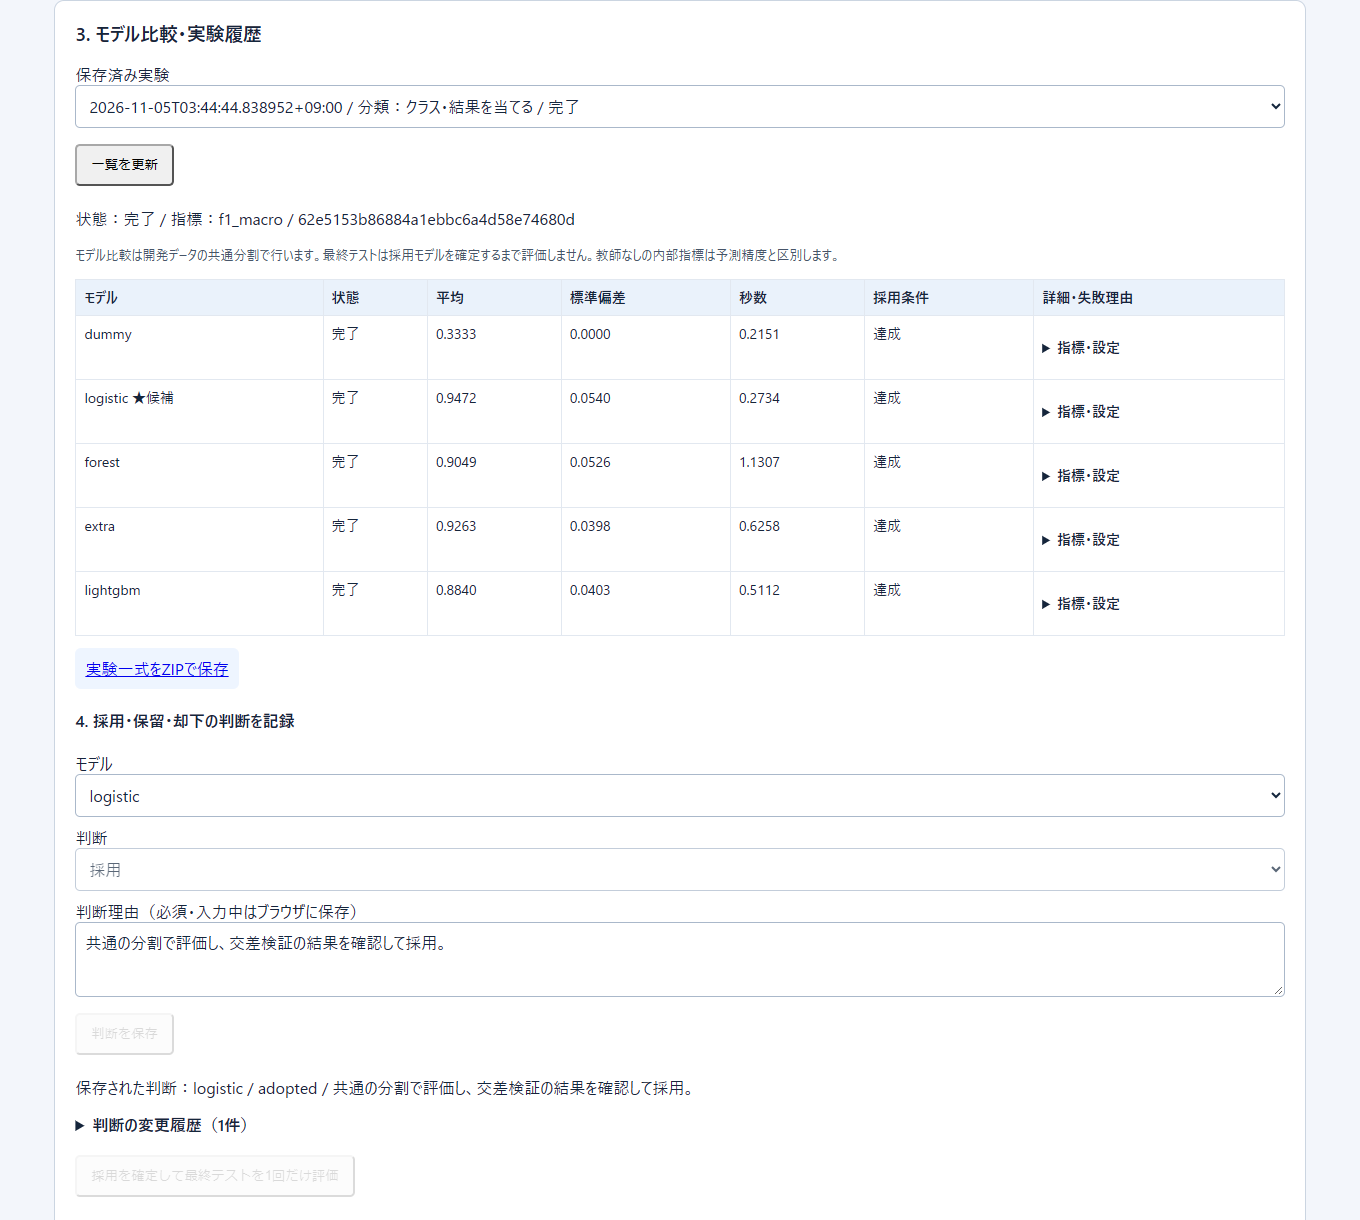
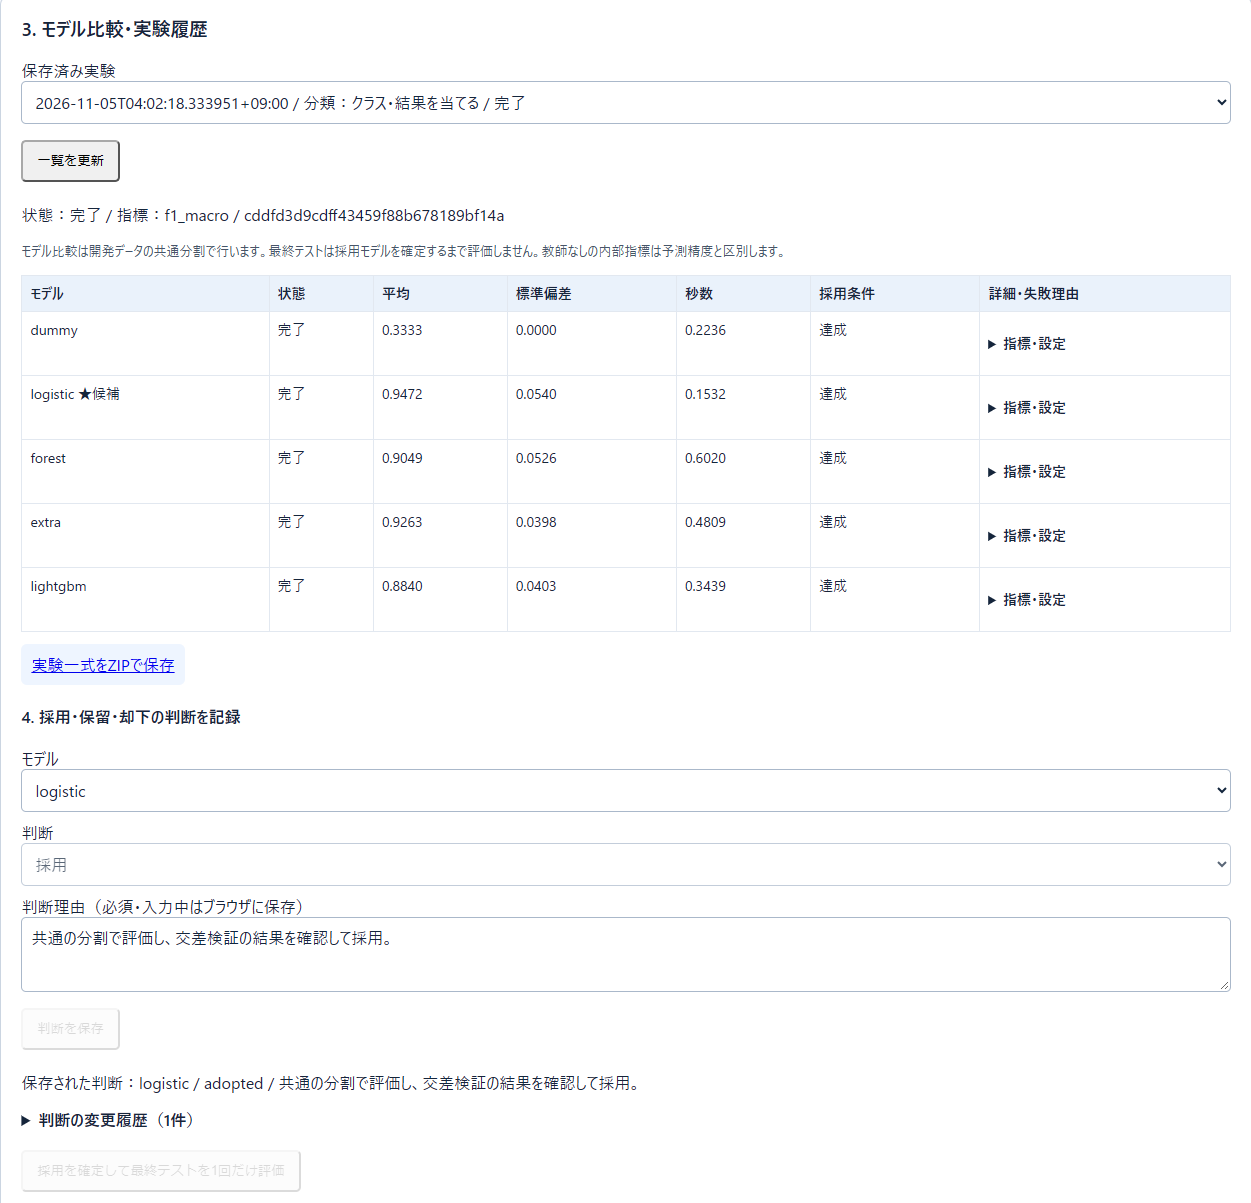
Clarify README and add a reproducible demo check
- Lead the README with what was built, the Codex-assisted personal
  development, how it was verified, and the synthetic-only scope
- Add verification/reproduce_demo.py to reproduce the published values
- Retake the comparison screenshot and add final-evaluation.png
- Replace a launcher reference that does not exist in this repository
- Update vite to 6.4.5 via npm audit fix

diff --git a/frontend/src/AutoAnalysis.jsx b/frontend/src/AutoAnalysis.jsx
@@ -16,7 +16,7 @@ export default function AutoAnalysis(){
  useEffect(()=>{try{localStorage.setItem('analysis-form-v1',JSON.stringify(cfg))}catch(e){setError('入力のブラウザ保存に失敗：'+e.message)}},[cfg]);
  useEffect(()=>{try{localStorage.setItem(run?.id?'analysis-reason-v1:'+run.id:'analysis-reason-v1',reason)}catch(e){setError('理由のブラウザ保存に失敗：'+e.message)}},[reason,run?.id]);
  async function refresh(){const [d,r,c]=await Promise.all([call('/data'),call('/runs'),call('/catalog')]);setData(d);setRuns(r);setCatalog(c);return r}
- useEffect(()=>{refresh().then(r=>{const id=localStorage.getItem('analysis-run-v1');if(id)loadRun(id).catch(e=>setError(e.message))}).catch(e=>setError('分析APIに接続できません。起動する.cmdを実行してください：'+e.message))},[]);
+ useEffect(()=>{refresh().then(r=>{const id=localStorage.getItem('analysis-run-v1');if(id)loadRun(id).catch(e=>setError(e.message))}).catch(e=>setError('分析APIに接続できません。READMEの手順でサーバーを起動してください：'+e.message))},[]);
  async function loadRun(id){const r=await call('/runs/'+id);setRun(r);localStorage.setItem('analysis-run-v1',id);setModel(r.decision?.model||r.suggested_model||r.rows.find(x=>x.status==='completed')?.model||'');setReason(localStorage.getItem('analysis-reason-v1:'+id)??r.decision?.reason??localStorage.getItem('analysis-reason-v1')??'');setDecisionStatus(r.decision?.status||'adopted');setPrediction(null)}
  useEffect(()=>{if(!run?.id||!['queued','running'].includes(run.status))return;const id=run.id;const timer=setInterval(()=>call('/runs/'+id).then(r=>{if(current.current!==id)return;setRun(r);if(r.status==='completed'){setModel(m=>m||r.suggested_model||r.rows.find(x=>x.status==='completed')?.model||'');refresh().catch(()=>{})}}).catch(e=>setError(e.message)),1500);return()=>clearInterval(timer)},[run?.id,run?.status]);
  useEffect(()=>{setGraphs([]);if(!run?.id||!model)return;let alive=true;call(`/runs/${run.id}/graphs/${model}`).then(g=>{if(alive)setGraphs(g)}).catch(e=>{if(alive)setError('グラフ状態取得：'+e.message)});return()=>{alive=false}},[run?.id,model]);

diff --git a/verification/reproduce_demo.py b/verification/reproduce_demo.py
@@ -1,0 +1,121 @@
+"""READMEの合成データ結果をAPI経由で再現する。
+
+examples/make_demo.py と同じ120行を取り込み、おすすめ5モデルの比較、判断の保存、
+最終テスト、別の合成3行の予測までを一時フォルダで実行する。実データは使わない。
+
+    python verification/reproduce_demo.py
+"""
+import os
+import sys
+import tempfile
+import time
+from pathlib import Path
+
+import pandas as pd
+from sklearn.datasets import make_classification
+
+root = Path(__file__).resolve().parents[1]
+sys.path.insert(0, str(root / "backend"))
+COLUMNS = ["feature_a", "feature_b", "feature_c", "feature_d", "feature_e"]
+
+
+def demo_frame():
+    features, target = make_classification(
+        n_samples=120, n_features=5, n_informative=3, random_state=42
+    )
+    frame = pd.DataFrame(features, columns=COLUMNS)
+    frame["target"] = target
+    return frame
+
+
+def new_rows():
+    features, _ = make_classification(
+        n_samples=3, n_features=5, n_informative=3, random_state=7
+    )
+    return pd.DataFrame(features, columns=COLUMNS).to_dict("records")
+
+
+def wait_for_run(client, run_id):
+    for _ in range(600):
+        run = client.get(f"/api/analysis/runs/{run_id}").json()
+        if run["status"] not in ("queued", "running"):
+            return run
+        time.sleep(0.5)
+    raise TimeoutError("比較が300秒以内に終わりませんでした")
+
+
+def wait_for_workers(api):
+    for _ in range(100):
+        with api.job_lock:
+            if not api.jobs:
+                return
+        time.sleep(0.1)
+
+
+def main():
+    with tempfile.TemporaryDirectory(prefix="sklearn_map_lab_demo_") as directory:
+        os.environ["SKLEARN_ANALYSIS_DIR"] = directory
+        from fastapi import FastAPI
+        from fastapi.testclient import TestClient
+
+        from analysis import api
+
+        app = FastAPI()
+        app.include_router(api.router)
+        client = TestClient(app)
+
+        csv = demo_frame().to_csv(index=False).encode()
+        data = client.post(
+            "/api/analysis/upload", files={"file": ("demo.csv", csv, "text/csv")}
+        ).json()
+        config = {
+            "data_id": data["id"],
+            "task": "classification",
+            "target": "target",
+            "features": COLUMNS,
+            "metric": "f1_macro",
+            "cv": 3,
+            "seed": 42,
+            "test_size": 0.2,
+        }
+        models = client.post("/api/analysis/recommend", json=config).json()
+        config["models"] = [model["id"] for model in models if model["recommended"]]
+        run_id = client.post("/api/analysis/runs", json=config).json()["id"]
+        run = wait_for_run(client, run_id)
+        if run["status"] != "completed":
+            raise RuntimeError(f"比較に失敗しました: {run.get('error')}")
+
+        print(f"rows: {data['rows']}")
+        for row in run["rows"]:
+            print(f"cv_f1_macro {row['model']}: {row['mean']:.4f} ({row['status']})")
+
+        client.post(
+            f"/api/analysis/runs/{run_id}/decision",
+            json={
+                "model": "logistic",
+                "status": "adopted",
+                "reason": "共通の分割で評価し、交差検証の結果を確認して採用。",
+            },
+        ).raise_for_status()
+        final = client.post(f"/api/analysis/runs/{run_id}/final", json={})
+        final.raise_for_status()
+        final = final.json()
+        print(f"final_test_rows: {final['test_rows']}")
+        print(f"final_f1_macro logistic: {final['metrics']['f1_macro']:.4f}")
+
+        changed = client.post(
+            f"/api/analysis/runs/{run_id}/decision",
+            json={"model": "dummy", "status": "adopted", "reason": "評価後の変更"},
+        )
+        print(f"decision_after_final_status: {changed.status_code}")
+
+        predicted = client.post(
+            f"/api/analysis/runs/{run_id}/predict", json={"rows": new_rows()}
+        )
+        predicted.raise_for_status()
+        print(f"predictions: {predicted.json()['predictions']}")
+        wait_for_workers(api)
+
+
+if __name__ == "__main__":
+    main()

diff --git a/README.md b/README.md
@@ -1,41 +1,48 @@
 # sklearn-map-lab
 
-手元の表データで、機械学習モデルを同じ条件で比較し、採用した理由と最終評価を残すローカルWebアプリです。
+表データを取り込み、機械学習モデルを同じ分割で比較して、採用した理由と最終テストの結果を記録するローカルWebアプリです。Codexを活用して個人開発しました。
 
-**English summary.** A local web app that profiles tabular data, compares machine-learning models on shared splits, and records the selection rationale before holdout evaluation.
+**English summary.** A local web app that profiles tabular data, compares machine-learning models on shared splits, and records the selection rationale before holdout evaluation. It is a personal project built with Codex. All figures below come from synthetic data.
 
-## 背景と担当
+| 観点 | 内容 |
+| --- | --- |
+| 作ったもの | データ診断、候補モデルの選定、交差検証での比較、採用理由の記録、最終テスト、新しい行の予測を1画面でつなぐアプリ（Python、FastAPI、React、scikit-learn、PyTorch） |
+| 担当 | 個人開発。実装にCodexを活用しました。公開版は既存のローカルアプリからデータ取り込みと自動分析の機能を切り出した新規履歴で、手書きとCodex生成の内訳を行単位で示す記録はありません |
+| 動作の確かめ方 | バックエンド14テスト、本番ビルド、実ブラウザでの操作、全モデル・全グラフの実行を2026-11-05に再実行し、すべて成功（[検証](#検証)） |
+| 数値の範囲 | 掲載する数値はすべて合成データでの動作確認の値です。実データでの性能は評価していません |
 
-モデル比較のスコアに加えて、何を予測するか、どの列を使うか、どのモデルをなぜ採用したかを同じ画面で確認できるよう、Codexを活用して個人開発しました。この公開版は、既存アプリからデータ取り込みと自動分析の機能を切り出したものです。
+## 動作画面
+
+合成データ120行で5モデルを比較し、採用理由を保存した画面です。
+
+![合成データでのモデル比較と採用理由](docs/model-comparison.png)
+
+採用を確定した後に最終テスト24行を評価し、別の合成データ3行を予測した画面です。
+
+![合成データでの最終テストと予測](docs/final-evaluation.png)
 
 ## できること
 
 | 工程 | 実装 |
 | --- | --- |
-| データ診断 | CSV、TSV、Excel、JSON、Parquetを取り込み、列の型・欠損・分布を表示 |
+| データ診断 | CSV、TSV、Excel（.xlsx）、JSON、Parquetを取り込み、列の型・欠損・分布を表示 |
 | 候補選定 | 分類、回帰、クラスタリング、異常検知、次元削減、等間隔時系列に応じて候補と除外理由を表示 |
 | 比較 | 分類・回帰でDummy基準モデルを使い、共通の分割で交差検証。前処理は各foldの訓練部分で学習 |
-| 判断の記録 | 採用・保留・却下と理由を実験に保存。分類・回帰・時系列の最終テストは採用確定後に評価 |
+| 判断の記録 | 採用・保留・却下と理由を実験に保存。分類・回帰・時系列の最終テストは採用確定後に評価し、評価後は採用モデルを変更不可 |
 | 振り返り | 適用条件に合う診断グラフを生成。設定・結果をZIPに書き出し、対応モデルでは新しい行を予測 |
 
 Reactが設定入力と結果表示を担当し、FastAPIがデータ取り込みと実験管理を担当します。学習・描画は別プロセスで実行し、実験記録はローカルの `analysis_data/` に保存します。
 
-| ソース | 担当 |
+| ソース | 役割 |
 | --- | --- |
 | [frontend/src/AutoAnalysis.jsx](frontend/src/AutoAnalysis.jsx) | 取り込みから判断の保存までの操作画面 |
 | [backend/analysis/api.py](backend/analysis/api.py) | データ取り込み、学習ワーカー、実験管理API |
 | [backend/analysis/engine.py](backend/analysis/engine.py) | データ分割、モデル比較、採用後の最終評価 |
 | [backend/analysis/graphs.py](backend/analysis/graphs.py) | 診断グラフの条件判定と描画 |
 
-## 動作画面
-
-合成データ120行を使った5モデルの比較と、採用理由を保存した画面です。
-
-![合成データでのモデル比較と採用理由](docs/model-comparison.png)
-
 ## セットアップ
 
-Python 3.12とNode.js 24で検証しました。リポジトリのルートから実行します。
+Python 3.12とNode.js 24で検証しました。リポジトリのルートから実行します。依存パッケージにPyTorchなどを含むため、インストールには時間がかかります。
 
 ```sh
 python -m venv .venv
@@ -49,14 +56,33 @@ python examples/make_demo.py examples/demo.csv
 python -m uvicorn main:app --app-dir backend --host 127.0.0.1 --port 8000
 ```
 
-ブラウザで `http://127.0.0.1:8000/` を開き、`examples/demo.csv` を取り込みます。目的変数に `target`、タスクに分類を設定し、「おすすめで比較を実行」を選びます。比較結果からモデルを選んで理由を保存し、最終テストを実行します。起動にAPIキーは不要です。保存先は環境変数 `SKLEARN_ANALYSIS_DIR` で指定できます。
+ブラウザで `http://127.0.0.1:8000/` を開き、`examples/demo.csv` を取り込みます。目的変数 `target` と分類は自動で候補に入ります。「おすすめで比較を実行」を選び、比較結果からモデルを選んで理由を保存し、最終テストを実行します。起動にAPIキーは不要です。保存先は環境変数 `SKLEARN_ANALYSIS_DIR` で指定できます。
 
 ## 検証
 
-- 合成データ120行のブラウザ試験で、5モデルの比較、判断の保存、最終テスト24行の評価、別途生成した3行の予測まで確認しました。3分割交差検証の平均マクロF1はDummyが0.3333、採用したロジスティック回帰が0.9472でした。ロジスティック回帰の最終テストでのマクロF1は0.9161でした。すべてこの合成データに限った動作確認の値です。
-- 公開用コピーでフロントエンドの本番ビルドと、バックエンド既存14テストの通過を確認しました。テストはCSV・Excel取り込み、学習、描画、採用後の評価、予測などをカバーします。
-- バックエンドのテストを実行する場合は `python -m pip install httpx` の後、`backend/` から `python -m unittest discover -s tests -v` を実行します。
+2026-11-05に、公開中のソースをWindows 11の新しい環境へ取得し、READMEの手順で再実行しました。環境はPython 3.12.13、Node.js 24.19、scikit-learn 1.9.1、pandas 3.1.1、FastAPI 0.162.0です。
+
+| 確認 | 実行方法 | 結果 |
+| --- | --- | --- |
+| バックエンド | `backend/` で `python -m unittest discover -s tests -v` | 14テストすべて通過 |
+| フロントエンド | `npm --prefix frontend run build` | 本番ビルド成功 |
+| 合成データの再現 | `python verification/reproduce_demo.py` | 下表の値を再現 |
+| 実ブラウザ | セットアップ後に画面を操作 | 120行の取り込み、5モデル比較、判断の保存、最終テスト24行、3行の予測を確認 |
+| 全モデル・全グラフ | `python verification/check_analysis.py` | 6タスクの合成データで65のタスク・モデルの組合せがすべて完了し、95種類のグラフをすべて描画 |
+
+テストと再現スクリプトの実行前に `python -m pip install httpx` が必要です。テストはCSV（CP932）・Excelの取り込み、欠測や分割条件の拒否、fold内の前処理、最終テストの二重評価防止、保存失敗からの復旧、時系列、2D CNN、取り込みからZIP出力までの通し動作をカバーします。
+
+| 合成データ120行の結果 | マクロF1 |
+| --- | --- |
+| Dummy（3分割交差検証の平均） | 0.3333 |
+| Random Forest（同） | 0.9049 |
+| Extra Trees（同） | 0.9263 |
+| LightGBM（同） | 0.8840 |
+| ロジスティック回帰（同） | 0.9472 |
+| ロジスティック回帰（最終テスト24行） | 0.9161 |
+
+これらは `make_classification` で生成した合成データに限った動作確認の値で、モデルの実力や実データでの性能を示すものではありません。
 
 ## 制約
 
-ローカルの単一ユーザー向けです。外部公開サーバーに必要な認証やユーザー分離は備えていません。実験ZIPには取り込んだデータが含まれます。比較スコアはデータと分割条件に依存します。予測時に使えない列は利用者が除外し、グループや時系列の構造に応じて分割条件を設定します。今後の課題は、実データでの比較と分割条件ごとの検証範囲を増やすことです。
+ローカルの単一ユーザー向けです。外部公開サーバーに必要な認証やユーザー分離は備えていません。実験ZIPには取り込んだデータが含まれます。比較スコアはデータと分割条件に依存します。予測時に使えない列は利用者が除外し、グループや時系列の構造に応じて分割条件を設定します。依存パッケージのバージョンは固定していないため、将来の更新で値が変わる可能性があります。今後の課題は、実データでの比較と分割条件ごとの検証範囲を増やすことです。
